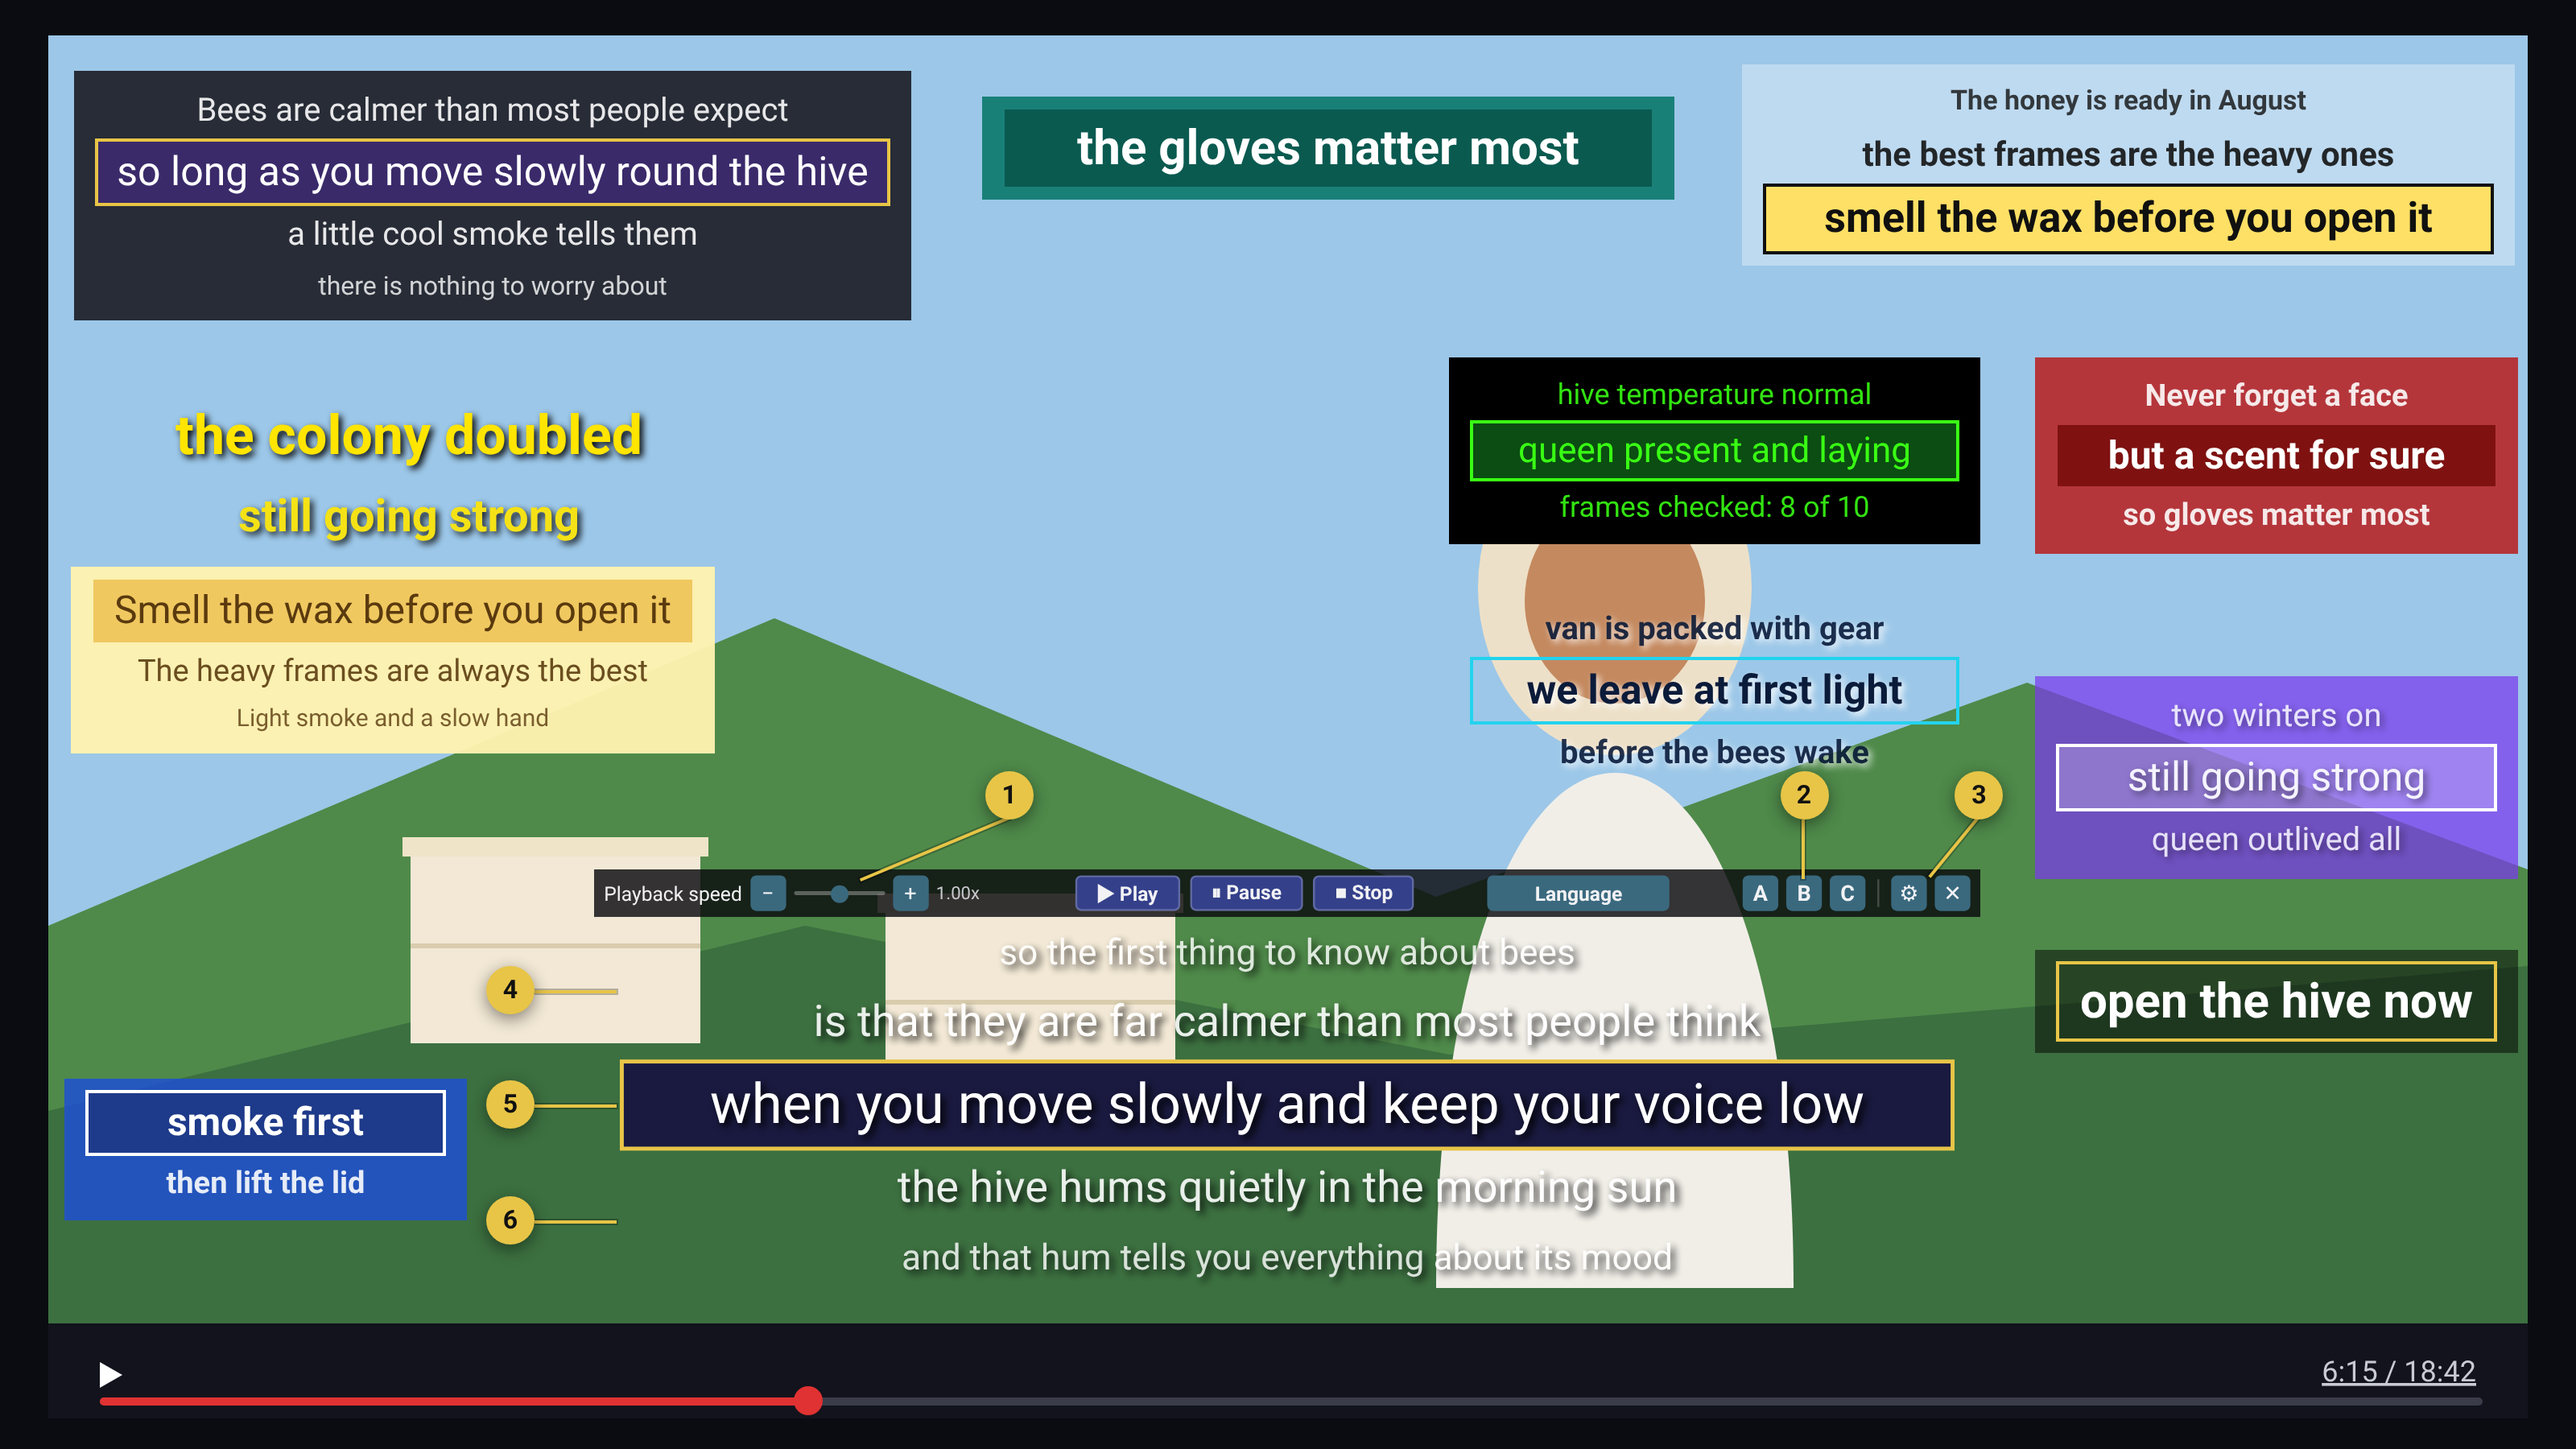
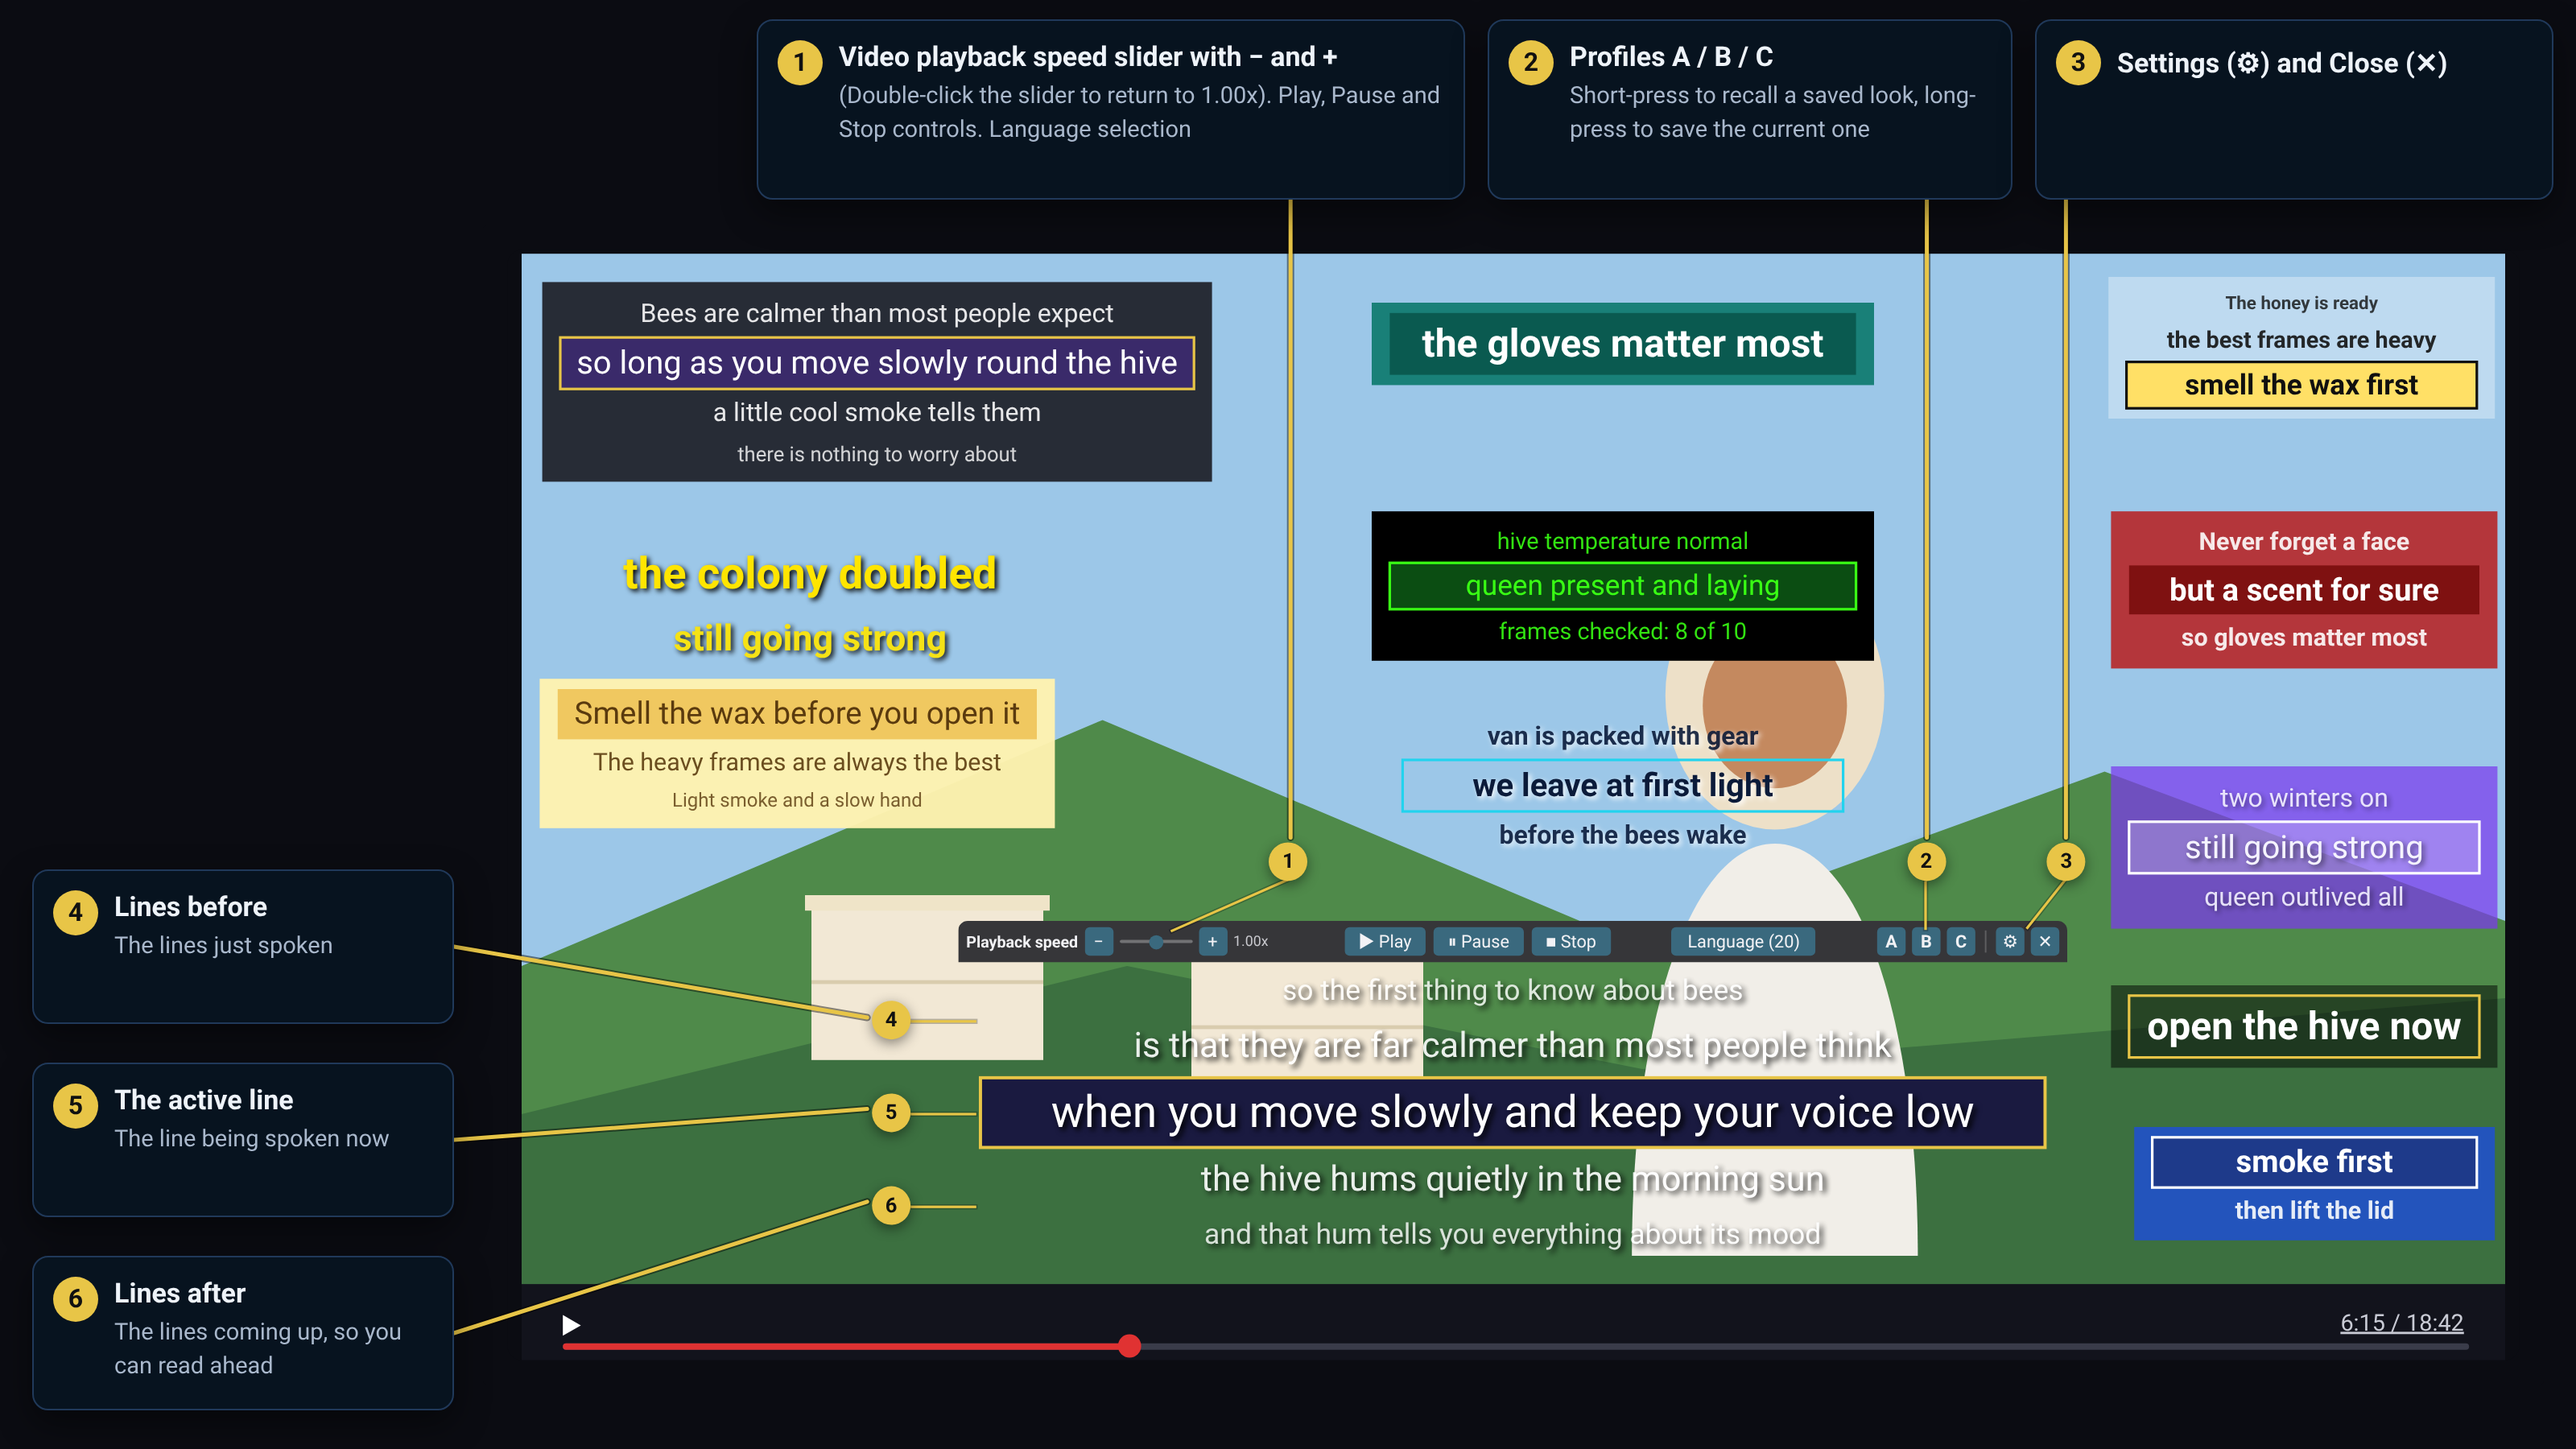
Add files via upload

diff --git a/teleprompter.html b/teleprompter.html
@@ -105,16 +105,8 @@
   <div class="guide-body">
     <p>The Teleprompter opens in its own panel, separate from the main overlay. The line being spoken is highlighted and the lines around it scroll past, so you always know exactly where you are</p>
   </div>
-  <img class="guide-img" src="teleprompter-illustration.png" alt="Illustration of the Teleprompter panel over a video, with numbered areas" />
-  <p class="guide-caption">An illustration of the Teleprompter panel (your own colours, fonts and layout will differ)</p>
-  <ul class="guide-list numbered">
-    <li>1. <strong>Speed and transport</strong> — Playback speed slider with − and +, plus Play, Pause and Stop. Double-click the slider to return to 1.00x. A language button switches the caption language</li>
-    <li>2. <strong>Profiles A / B / C</strong> — Short-press to recall a saved look, long-press to save the current one</li>
-    <li>3. <strong>Settings (⚙) and Close (✕)</strong> — Hover over the Teleprompter to reveal them</li>
-    <li>4. <strong>Lines before</strong> — The lines just spoken, smaller and fainter the further back they are</li>
-    <li>5. <strong>The active line</strong> — The line being spoken now, with an optional highlight and border</li>
-    <li>6. <strong>Lines after</strong> — The lines coming up, so you can read ahead</li>
-  </ul>
+  <img class="guide-img" src="teleprompter-illustration.png" alt="Illustration of the Teleprompter panel over a YouTube video, with numbered callouts: 1 video playback speed slider with minus and plus, Play, Pause and Stop controls and language selection; 2 Profiles A, B and C, short-press to recall a saved look and long-press to save the current one; 3 Settings and Close; 4 lines before, the lines just spoken; 5 the active line, the line being spoken now; 6 lines after, the lines coming up so you can read ahead" />
+  <p class="guide-caption">An illustration of the Teleprompter panel overlayed onto a YouTube video including numerous examples of how subtitles could be configured and displayed</p>
 </div></div>
 
 <!-- Getting started -->
